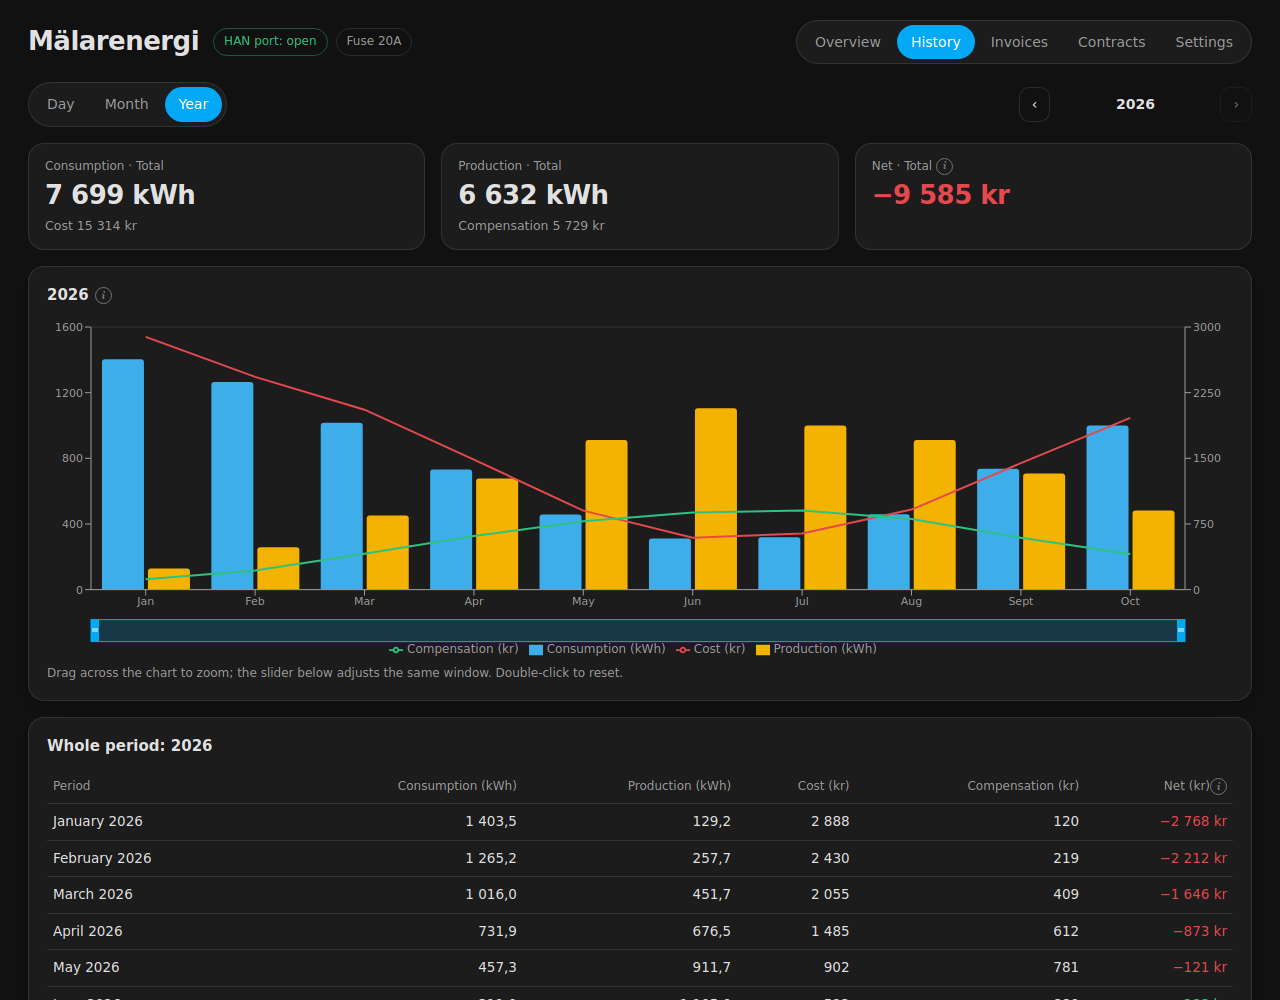
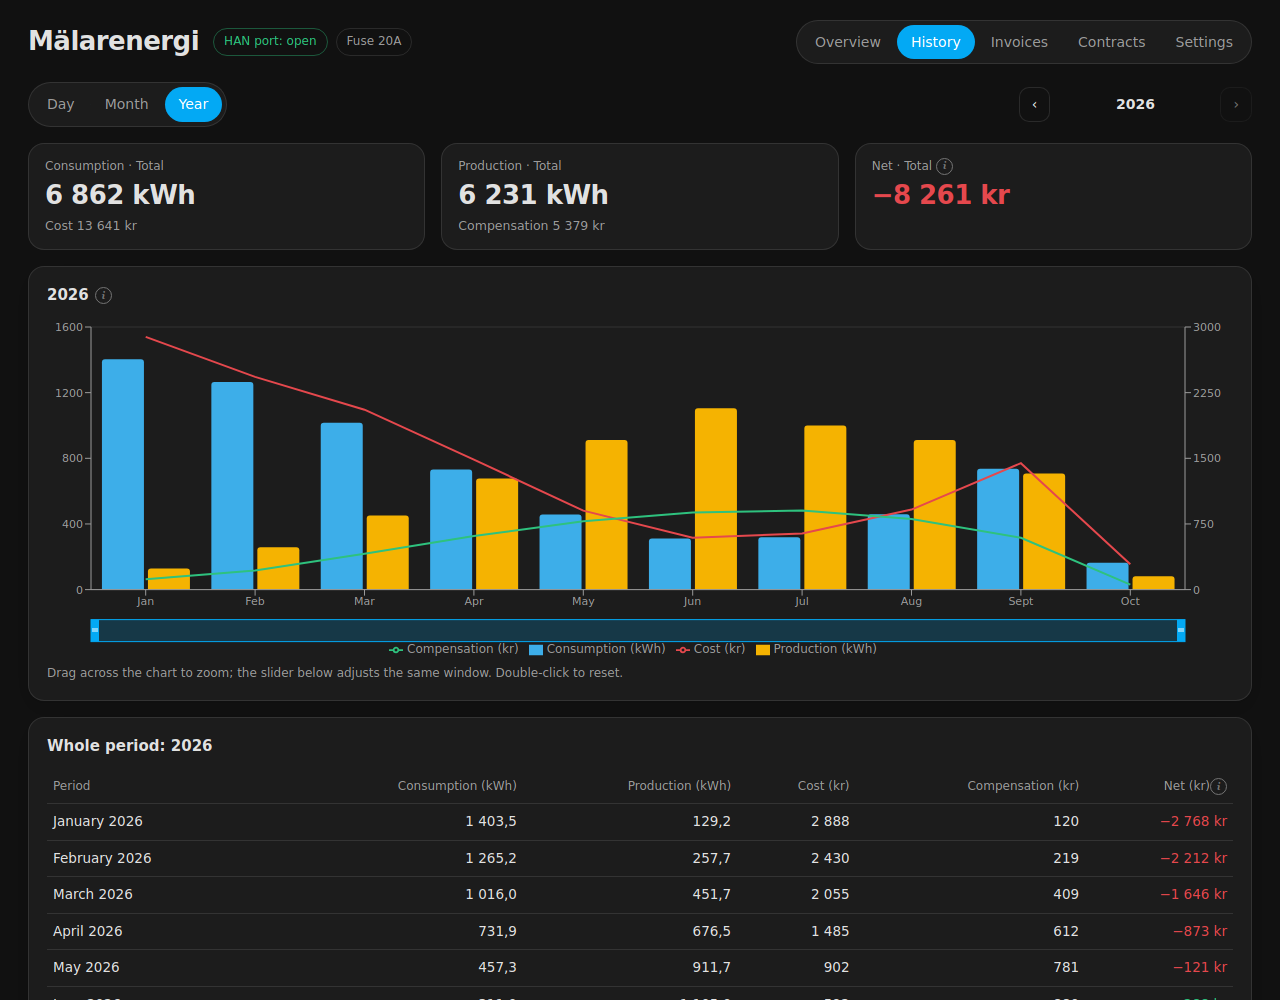
Demo: timezone-proof dates, active contracts, current month to date

diff --git a/docs/demo/demo.html b/docs/demo/demo.html
@@ -21,7 +21,7 @@
 const q = new URLSearchParams(location.search);
 // fixed clock (?now=ISO to change it) so regenerated screenshots are identical; the panel reads the time too,
 // so Date itself is pinned before the bundle loads
-const FIXED = new Date(q.get("now") || "2026-10-05T12:00:00").getTime();
+const FIXED = new Date(q.get("now") || "2026-10-05T12:00:00+02:00").getTime();
 const RealDate = Date;
 globalThis.Date = class extends RealDate {
   constructor(...a) { super(...(a.length ? a : [FIXED])); }
@@ -35,6 +35,8 @@ localStorage.setItem("me_tab", tab);
 let seed = 7;
 const rnd = () => ((seed = (seed * 16807) % 2147483647) / 2147483647);
 const iso = (d) => d.toISOString();
+// date-only fields from local dates (toISOString would shift local midnights to the previous UTC day)
+const ymd = (d) => `${d.getFullYear()}-${String(d.getMonth() + 1).padStart(2, "0")}-${String(d.getDate()).padStart(2, "0")}`;
 const day0 = (d) => new Date(d.getFullYear(), d.getMonth(), d.getDate());
 const now = new Date();
 const spot = (h) => 0.35 + 0.5 * Math.max(0, Math.sin(((h - 6) / 24) * 2 * Math.PI)) + rnd() * 0.15;
@@ -74,7 +76,11 @@ function series(res, start, end) {
       const d = new Date(s.getFullYear(), m, 1);
       if (d > now) break;
       let cons = 0, prod = 0, cost = 0, comp = 0;
-      for (let k = 0; k < 30; k++) { const v = dayValues(new Date(d.getFullYear(), m, k + 1)); cons += v.cons; prod += v.prod; cost += v.cost; comp += v.comp; }
+      for (let k = 0; k < 30; k++) {
+        const dk = new Date(d.getFullYear(), m, k + 1);
+        if (dk > now) break;  // the current month only up to today
+        const v = dayValues(dk); cons += v.cons; prod += v.prod; cost += v.cost; comp += v.comp;
+      }
       c.consumption.push([iso(d), cons]); c.cost.push([iso(d), cost]); p.production.push([iso(d), prod]); p.compensation.push([iso(d), comp]);
     }
   }
@@ -95,16 +101,16 @@ function invoices() {
       { category: "supply_fixed", name: "Fast avgift elhandel", kwh: 0, amount: 49 },
     ];
     const amount = Math.round(lines.reduce((a, l) => a + l.amount, 0));
-    out.push({ invoice_id: `demo-c${k}`, kind: "consumption", issue_date: iso(new Date(pe.getTime() + 864e5 * 5)).slice(0, 10),
-      due_date: iso(due).slice(0, 10), period_start: iso(ps).slice(0, 10), period_end: iso(pe).slice(0, 10), amount, amount_ex_vat: amount * 0.8,
+    out.push({ invoice_id: `demo-c${k}`, kind: "consumption", issue_date: ymd(new Date(pe.getTime() + 864e5 * 5)),
+      due_date: ymd(due), period_start: ymd(ps), period_end: ymd(pe), amount, amount_ex_vat: amount * 0.8,
       status: k === 1 ? "ACCOUNTED" : "PAID", closed: k > 1, kwh, fixed: 444, power_fee: 0, other: 0, utilities: ["ELNAT", "ELHANDEL"], lines });
     const pk = Math.round(v.prod * 30);
     if (pk > 20) {
       const pl = [{ category: "production_spot", name: "Ersättning producerad el", kwh: pk, amount: -pk * (0.5 + rnd() * 0.4) },
         { category: "production_grid", name: "Nätnytta", kwh: pk, amount: -pk * 0.05 }];
       const pa = Math.round(pl.reduce((a, l) => a + l.amount, 0));
-      out.push({ invoice_id: `demo-p${k}`, kind: "production", issue_date: iso(new Date(pe.getTime() + 864e5 * 5)).slice(0, 10),
-        due_date: iso(due).slice(0, 10), period_start: iso(ps).slice(0, 10), period_end: iso(pe).slice(0, 10), amount: pa, amount_ex_vat: pa,
+      out.push({ invoice_id: `demo-p${k}`, kind: "production", issue_date: ymd(new Date(pe.getTime() + 864e5 * 5)),
+        due_date: ymd(due), period_start: ymd(ps), period_end: ymd(pe), amount: pa, amount_ex_vat: pa,
         status: "PAID", closed: true, kwh: pk, fixed: 0, power_fee: 0, other: 0, utilities: ["ELPROD"], lines: pl });
     }
   }
@@ -119,9 +125,9 @@ const data = {
   PRODUCTION: { point: POINT_P, daily: daily(new Date(now.getTime() - 31 * 864e5), now) },
 };
 const contracts = [
-  { utility: "Elnät", product: "Säkringsabonnemang", contract: "active", start: "2024-03-01", end: null, fuse: "20A", area: "VLS", yearly_kwh: 14200 },
-  { utility: "Elhandel", product: "Kvartspris", contract: "active", start: "2024-03-01", end: null, fuse: null, area: "VLS", yearly_kwh: 14200 },
-  { utility: "Elhandel produktion", product: "Ersättning", contract: "active", start: "2024-05-15", end: null, fuse: null, area: "VLS", yearly_kwh: -9800 },
+  { utility: "Elnät", product: "Säkringsabonnemang", contract: "active", start: "2024-03-01", end: "", fuse: "20A", area: "VLS", yearly_kwh: 14200 },
+  { utility: "Elhandel", product: "Kvartspris", contract: "active", start: "2024-03-01", end: "", fuse: null, area: "VLS", yearly_kwh: 14200 },
+  { utility: "Elhandel produktion", product: "Ersättning", contract: "active", start: "2024-05-15", end: "", fuse: null, area: "VLS", yearly_kwh: -9800 },
   { utility: "Elhandel", product: "Fastpris 1 år", contract: "ended", start: "2023-03-01", end: "2024-02-29", fuse: null, area: "VLS", yearly_kwh: 15100 },
 ];
 

diff --git a/scripts/screenshots.py b/scripts/screenshots.py
@@ -120,6 +120,7 @@ def main() -> None:
                 f"--user-data-dir={profile}",
                 "about:blank",
             ],
+            env={**os.environ, "TZ": os.environ.get("DEMO_TZ", "Europe/Stockholm")},  # same dates on every host
             stdout=subprocess.DEVNULL,
             stderr=subprocess.DEVNULL,
         )
